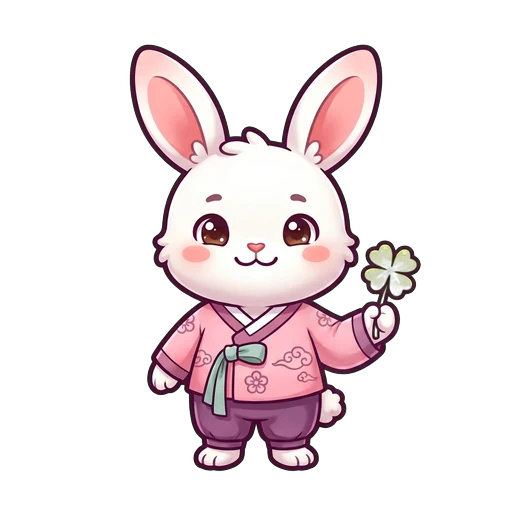
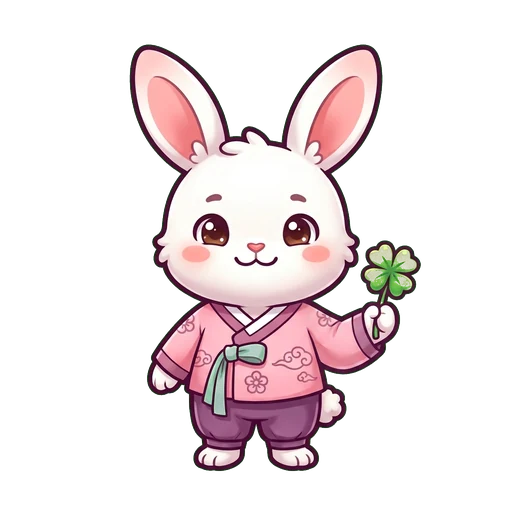
Add horse images (13), keep green props on green backgrounds
Green keying now uses the measured border hue too, so the four-leaf
clover (hue ~100 vs background ~134) survives. Bright glow pixels mixed
with the green background are still cleared by green dominance.
Rabbit is reprocessed so its clover comes back.

Claude-Session: https://claude.ai/code/session_01BPzEyfs4CnZ61wXWeSyjJf

Changed region(s): [[0.7188, 0.5, 0.8125, 0.5938]]

diff --git a/saju-app/js/asset-manifest.js b/saju-app/js/asset-manifest.js
@@ -1,3 +1,3 @@
 // 자동 생성 파일 (tools/ingest.py manifest) — 손으로 고치지 마세요
-export const CHAR_FILES = ["dragon_s1", "dragon_s2", "dragon_s3", "dragon_s4", "dragon_s5", "ox_s1", "ox_s2", "ox_s3", "ox_s4", "ox_s5", "rabbit_s1", "rabbit_s2", "rabbit_s3", "rabbit_s4", "rabbit_s5", "rat_s1", "rat_s2", "rat_s3", "rat_s4", "rat_s5", "snake_s1", "snake_s2", "snake_s3", "snake_s4", "snake_s5", "tiger_s1", "tiger_s2", "tiger_s3", "tiger_s4", "tiger_s5"];
-export const EMO_FILES = ["dragon_calm", "dragon_excited", "dragon_fighting", "dragon_love", "dragon_sleepy", "dragon_smile", "dragon_thanks", "dragon_wow", "ox_calm", "ox_excited", "ox_fighting", "ox_love", "ox_sleepy", "ox_smile", "ox_thanks", "ox_wow", "rabbit_calm", "rabbit_excited", "rabbit_fighting", "rabbit_love", "rabbit_sleepy", "rabbit_smile", "rabbit_thanks", "rabbit_wow", "rat_calm", "rat_excited", "rat_fighting", "rat_love", "rat_sleepy", "rat_smile", "rat_thanks", "rat_wow", "snake_calm", "snake_excited", "snake_fighting", "snake_love", "snake_sleepy", "snake_smile", "snake_thanks", "snake_wow", "tiger_calm", "tiger_excited", "tiger_fighting", "tiger_love", "tiger_sleepy", "tiger_smile", "tiger_thanks", "tiger_wow"];
+export const CHAR_FILES = ["dragon_s1", "dragon_s2", "dragon_s3", "dragon_s4", "dragon_s5", "horse_s1", "horse_s2", "horse_s3", "horse_s4", "horse_s5", "ox_s1", "ox_s2", "ox_s3", "ox_s4", "ox_s5", "rabbit_s1", "rabbit_s2", "rabbit_s3", "rabbit_s4", "rabbit_s5", "rat_s1", "rat_s2", "rat_s3", "rat_s4", "rat_s5", "snake_s1", "snake_s2", "snake_s3", "snake_s4", "snake_s5", "tiger_s1", "tiger_s2", "tiger_s3", "tiger_s4", "tiger_s5"];
+export const EMO_FILES = ["dragon_calm", "dragon_excited", "dragon_fighting", "dragon_love", "dragon_sleepy", "dragon_smile", "dragon_thanks", "dragon_wow", "horse_calm", "horse_excited", "horse_fighting", "horse_love", "horse_sleepy", "horse_smile", "horse_thanks", "horse_wow", "ox_calm", "ox_excited", "ox_fighting", "ox_love", "ox_sleepy", "ox_smile", "ox_thanks", "ox_wow", "rabbit_calm", "rabbit_excited", "rabbit_fighting", "rabbit_love", "rabbit_sleepy", "rabbit_smile", "rabbit_thanks", "rabbit_wow", "rat_calm", "rat_excited", "rat_fighting", "rat_love", "rat_sleepy", "rat_smile", "rat_thanks", "rat_wow", "snake_calm", "snake_excited", "snake_fighting", "snake_love", "snake_sleepy", "snake_smile", "snake_thanks", "snake_wow", "tiger_calm", "tiger_excited", "tiger_fighting", "tiger_love", "tiger_sleepy", "tiger_smile", "tiger_thanks", "tiger_wow"];

diff --git a/saju-app/tools/chroma.py b/saju-app/tools/chroma.py
@@ -1,4 +1,4 @@
-"""크로마키 배경 제거: 초록(#00FF00) 또는 마젠타(#FF00FF) 단색 배경을 투명하게 만들고 가장자리 번짐을 정리한다.
+"""크로마키 배경 제거: 초록 또는 마젠타 단색 배경(실제 색은 테두리에서 측정)을 투명하게 만들고 가장자리 번짐을 정리한다.
 사용: python3 -I tools/chroma.py 입력.png 출력.png [green|magenta] [최대크기px]
 """
 import sys
@@ -10,13 +10,13 @@ def _hsv(r, g, b):
     h = np.where(mx == r, ((g - b) / d) % 6, np.where(mx == g, (b - r) / d + 2, (r - g) / d + 4)) * 60
     return h, (mx - mn) / (mx + 1e-6), mx
 
-def _border_hue(hue, sat, val):
+def _border_hue(hue, sat, val, fallback=300.0):
     """테두리 띠(가장자리 3%)에서 채도 높은 픽셀의 색상 중앙값 = 배경 색상(그라데이션 배경 대비)"""
     H, W = hue.shape; k = max(2, int(min(H, W) * 0.03))
     m = np.zeros_like(hue, bool); m[:k] = m[-k:] = True; m[:, :k] = m[:, -k:] = True
     m &= (sat > 0.4) & (val > 0.4)
     hs = hue[m]
-    if hs.size == 0: return 300.0
+    if hs.size == 0: return fallback
     # 0/360 경계를 넘는 색상도 맞게 평균 내려고 원형 평균
     ang = np.deg2rad(hs); return float(np.rad2deg(np.arctan2(np.sin(ang).mean(), np.cos(ang).mean())) % 360)
 
@@ -24,27 +24,29 @@ def remove(src, dst, key='green', size=None):
     im = Image.open(src).convert('RGB')
     a = np.asarray(im).astype(np.float32) / 255.0
     r, g, b = a[..., 0], a[..., 1], a[..., 2]
+    # 테두리에서 잰 실제 배경 색상(hue)과의 거리로 판단 (초록·마젠타 공통).
+    # 배경과 색이 비슷한 소품(초록 클로버, 분홍 하트)도 색상이 15° 넘게 다르면 지킨다.
+    hue, sat, val = _hsv(r, g, b)
+    h0 = _border_hue(hue, sat, val, 134.0 if key == 'green' else 300.0)
+    dh = np.abs((hue - h0 + 180) % 360 - 180)
+    a_h = np.clip((dh - 8) / (16 - 8), 0, 1)          # 색상이 배경과 8° 이내 → 투명, 16° 이상 → 불투명 (배경 편차는 보통 4° 이내)
+    a_s = np.clip((0.62 - sat) / (0.62 - 0.45), 0, 1)  # 채도가 낮은 흰색·회색·연한 털은 불투명 (배경 채도 0.7 이상)
+    a_v = np.clip((0.75 - val) / (0.75 - 0.55), 0, 1)  # 어두운 외곽선·눈동자는 불투명 (배경 명도 0.8 이상)
+    alpha = np.maximum(a_h, np.maximum(a_s, a_v))
+    # 밝은 빛(후광·구슬 빛)과 배경이 섞인 픽셀은 색상이 배경과 달라 남으므로, 밝은 곳에서는 배경색 우세도로 한 번 더 지운다
+    # (클로버처럼 명도가 낮은 소품은 해당 없음). 마젠타는 보라 한복·분홍 하트가 밝아서 이 규칙을 쓰지 않는다
     if key == 'green':
-        # 배경색 우세 정도: g가 r·b보다 얼마나 큰지. 0.12 이하 → 불투명, 0.35 이상 → 투명
         dom = g - np.maximum(r, b)
-        alpha = np.clip(1 - (dom - 0.12) / (0.35 - 0.12), 0, 1)
-        # 반투명 가장자리의 배경색 번짐(스필) 제거
-        g2 = np.minimum(g, np.maximum(r, b) + 0.04)
-        out = np.stack([r, g2, b], -1)
+        a_dom = np.clip(1 - (dom - 0.12) / (0.35 - 0.12), 0, 1)
+        alpha = np.where(val > 0.78, np.minimum(alpha, a_dom), alpha)
+    # 반투명 가장자리에만 배경색 번짐(스필) 제거 (안쪽 색은 그대로)
+    edge = (alpha < 1)[..., None]
+    lim = g + 0.04
+    if key == 'green':
+        fixed = np.stack([r, np.minimum(g, np.maximum(r, b) + 0.04), b], -1)
     else:
-        # 마젠타: 분홍·빨강(하트·볼·귀)을 지키려고 테두리에서 잰 실제 배경 색상(hue)과의 거리로 판단
-        hue, sat, val = _hsv(r, g, b)
-        h0 = _border_hue(hue, sat, val)
-        dh = np.abs((hue - h0 + 180) % 360 - 180)
-        a_h = np.clip((dh - 8) / (16 - 8), 0, 1)          # 색상이 배경과 8° 이내 → 투명, 16° 이상 → 불투명 (배경 편차는 보통 4° 이내, 분홍 하트는 20° 이상)
-        a_s = np.clip((0.62 - sat) / (0.62 - 0.45), 0, 1)  # 채도가 낮은 흰색·회색·연보라 털은 불투명 (배경 채도 0.7 이상)
-        a_v = np.clip((0.75 - val) / (0.75 - 0.55), 0, 1)  # 어두운 보라 외곽선·눈동자는 불투명 (배경 명도 0.9 이상)
-        alpha = np.maximum(a_h, np.maximum(a_s, a_v))
-        # 스필 제거는 반투명 가장자리에만(안쪽 분홍은 그대로)
-        edge = (alpha < 1)[..., None]
-        lim = g + 0.04
         fixed = np.stack([np.minimum(r, np.maximum(lim, r * alpha)), g, np.minimum(b, np.maximum(lim, b * alpha))], -1)
-        out = np.where(edge, fixed, np.stack([r, g, b], -1))
+    out = np.where(edge, fixed, np.stack([r, g, b], -1))
     rgba = np.dstack([out, alpha])
     res = Image.fromarray((rgba * 255).astype(np.uint8), 'RGBA')
     bbox = res.getchannel('A').point(lambda v: 255 if v > 8 else 0).getbbox()
